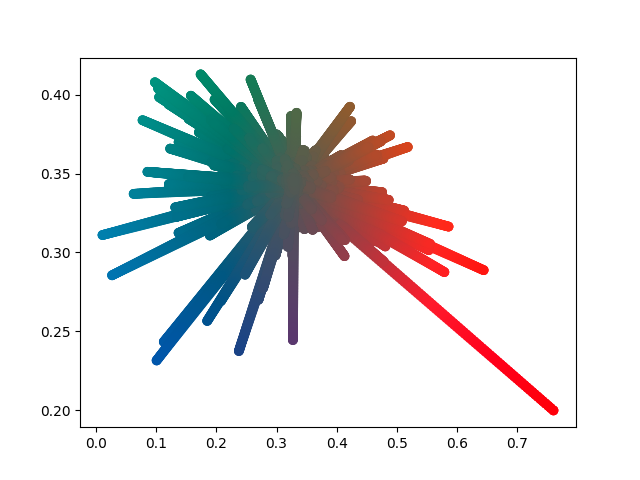
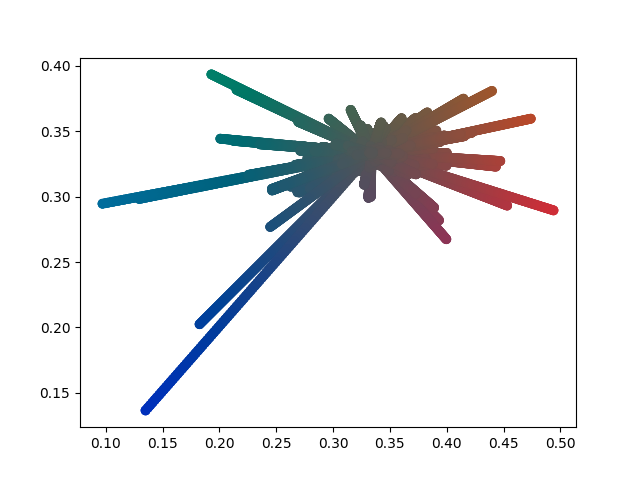
upd

diff --git a/lab 2/part 2/xyz_conv.py b/lab 2/part 2/xyz_conv.py
@@ -1,10 +1,16 @@
 import cv2
+import matplotlib.pyplot as plt
 import numpy as np
 import skimage.color
 from numpy import dstack
 
 img = cv2.imread("../img1.jpg")
 RGB = np.array(img, dtype=np.uint8)
+
+# img = plt.imread("../img1.jpg")
+# plt.imshow(np.array(RGB))
+# plt.title('Input Image')
+# plt.show()
 
 matrix_RGB_to_XYZ = np.array(
     [[0.49000, 0.31000, 0.20000],
@@ -15,13 +21,19 @@ matrix_RGB_to_XYZ = np.array(
 # перевод с использованием библиотечной функции
 XYZ_skimage = skimage.color.rgb2xyz(RGB.astype(np.uint8))
 # XYZ_cv2 = cv2.cvtColor(RGB, cv2.COLOR_RGB2XYZ)
+cv2.imwrite("xyzLibskimage.png", np.array(XYZ_skimage))
 cv2.imshow("xyzLibskimage", XYZ_skimage)
 cv2.waitKey(0)
+# plt.imshow(np.array(XYZ_skimage))
+# plt.title('Input Image')
+# plt.show()
 
 
 # перевод с использованием матрицы
 def rgb_to_xyz(image):
-    r0, g0, b0 = cv2.split(image)
+    r0 = image[:, :, 0]
+    g0 = image[:, :, 1]
+    b0 = image[:, :, 2]
     r = r0 / 255.0
     g = g0 / 255.0
     b = b0 / 255.0
@@ -32,14 +44,22 @@ def rgb_to_xyz(image):
 
 
 XYZ = rgb_to_xyz(img)
+cv2.imwrite("xyz.png", np.array(XYZ))
+# plt.imshow(np.array(XYZ))
+# plt.title('Input Image')
+# plt.show()
 cv2.imshow("xyz", XYZ)
 cv2.waitKey(0)
 
 srcArray = np.array(XYZ_skimage, dtype=np.uint8)
 outArray = np.array(XYZ, dtype=np.uint8)
 
-b0, g0, r0 = cv2.split(srcArray)
-b, g, r = cv2.split(outArray)
+r0 = srcArray[:, :, 0]
+g0 = srcArray[:, :, 1]
+b0 = srcArray[:, :, 2]
+r = outArray[:, :, 0]
+g = outArray[:, :, 1]
+b = outArray[:, :, 2]
 
 dif_r = np.abs(r0 - r)
 dif_g = np.abs(g0 - g)
@@ -47,7 +67,9 @@ dif_b = np.abs(b0 - b)
 dif = np.abs(srcArray - outArray)
 print(dif)
 cv2.imwrite("dif.jpg", dif)
-
+# plt.imshow(np.array(dif))
+# plt.title('Input Image')
+# plt.show()
 # cv2.imshow("dif_r", dif_r)
 # cv2.imshow("dif_g", dif_g)
 # cv2.imshow("dif_b", dif_b)

diff --git a/lab 1/vng/vng.py b/lab 1/vng/vng.py
@@ -1,0 +1,8 @@
+import cv2
+from matplotlib import pyplot as plt
+
+bayer = cv2.imread(r"../2-bayer/img.jpg", -1)
+fig = plt.figure()
+plt.imshow(bayer, cmap='gray')
+plt.title('Input Image')
+plt.show()

diff --git a/lab 2/Practice_03.md b/lab 2/Practice_03.md
@@ -173,13 +173,13 @@ RGB_skimage = skimage.color.xyz2rgb(img.astype(np.uint8))
 8. Построить проекцию цветов исходного изображения на цветовой локус (плоскость xy).
 
 ```
-X = np.array(rgb_to_xyz(img)[:, 1])
-Y = np.array(rgb_to_xyz(img)[:, 2])
-Z = np.array(rgb_to_xyz(img)[:, 3])
-node = 200
-array = np.array([[0.4898, 0.3101, 0.2001],
-                  [0.1769, 0.8124, 0.0107],
-                  [0.0000, 0.0100, 0.9903]])
+X = np.array(rgb_to_xyz(img)[0])
+Y = np.array(rgb_to_xyz(img)[1])
+Z = np.array(rgb_to_xyz(img)[2])
+node = 100
+array = np.array([[0.4887180, 0.3106803, 0.2006017],
+                  [0.1762044, 0.8129847, 0.0108109],
+                  [0.0000000, 0.0102048, 0.9897952]])
 InvArray = np.linalg.inv(array)
 x = X / (X + Y + Z)
 y = Y / (X + Y + Z)
@@ -187,16 +187,18 @@ z = Z / (X + Y + Z)
 xs, ys, zs = 0, 0, 0
 tmpx = np.linspace(x[0], x[-1], node)
 tmpy = np.linspace(y[0], y[-1], node)
+
 for i in range(len(x)):
     xs += x[i]
     ys += y[i]
     zs += z[i]
-
+    
 XWhite = xs / (xs + ys + zs)
 YWhite = ys / (xs + ys + zs)
 Allx, Ally, AllX, AllZ = [], [], [], []
 x = np.append(x, tmpx)
 y = np.append(y, tmpy)
+
 for (v, v2) in zip(x, y):
     tmpx = np.linspace(XWhite, v, node)
     Allx = np.append(Allx, tmpx)
@@ -206,20 +208,21 @@ for (v, v2) in zip(x, y):
 AllY = Ally
 AllX = Allx
 AllZ = 1 - Allx - Ally
+
 XYZ = [[x, y, z] for (x, y, z) in zip(AllX, AllY, AllZ)]
 RGB = [np.dot(InvArray, v) for v in XYZ]
 for v in RGB:
-    if (v[0] < 0):
+    if v[0] < 0:
         v[0] = 0
-    if (v[0] > 1):
+    if v[0] > 1:
         v[0] = 1
-    if (v[1] < 0):
+    if v[1] < 0:
         v[1] = 0
-    if (v[1] > 1):
+    if v[1] > 1:
         v[1] = 1
-    if (v[2] < 0):
+    if v[2] < 0:
         v[2] = 0
-    if (v[2] > 1):
+    if v[2] > 1:
         v[2] = 1
 
 plt.figure()
@@ -229,9 +232,7 @@ plt.show()
 
 <div align="center">
  <div>Проекция цветов на цветовой локус (плоскость xy):</div>
-
-![img.png](img.png)
-
+ <img src="part%203/img_1.png" alt="" width=66%>
 </div>
 
 9. Написать функцию перевода цветов из линейного RGB в HSV и обратно. Найти подходящую библиотечную функцию. Сравнить
